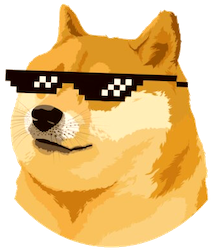
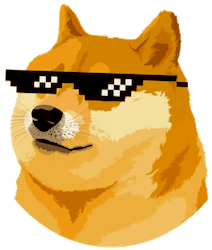
increase img size, increase contrast of such-doge.png

diff --git a/src/components/doge-qr/doge-qr.js b/src/components/doge-qr/doge-qr.js
@@ -126,7 +126,7 @@ export class DogeQR extends LitElement {
         imageOptions: {
           crossOrigin: "anonymous",
           hideBackgroundDots: false,
-          imageSize: 0.4,
+          imageSize: 0.45,
           margin: 0
         },
         ...this.applyTheme(),
